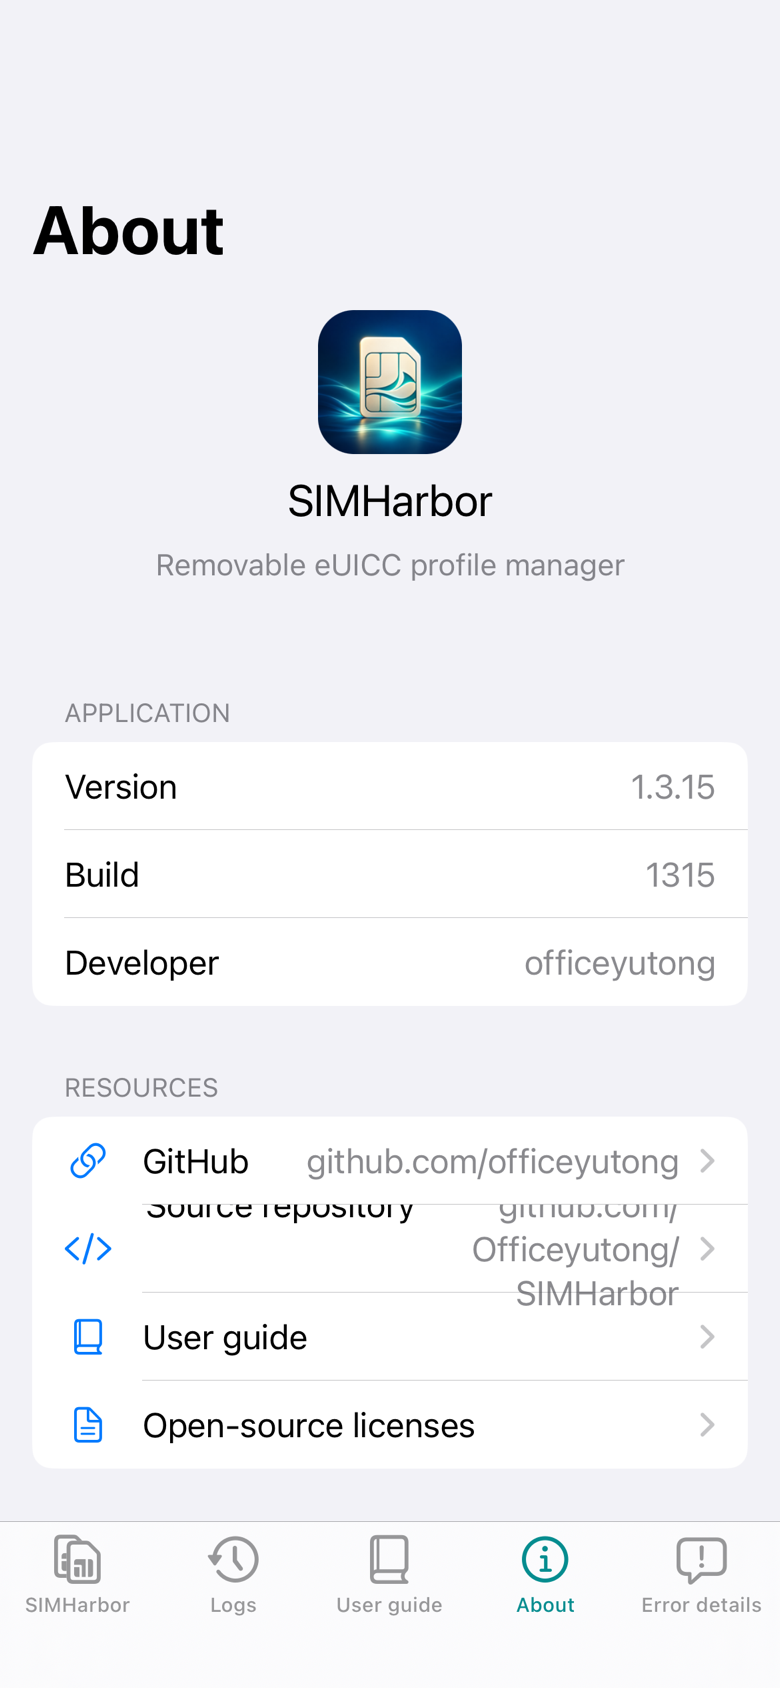
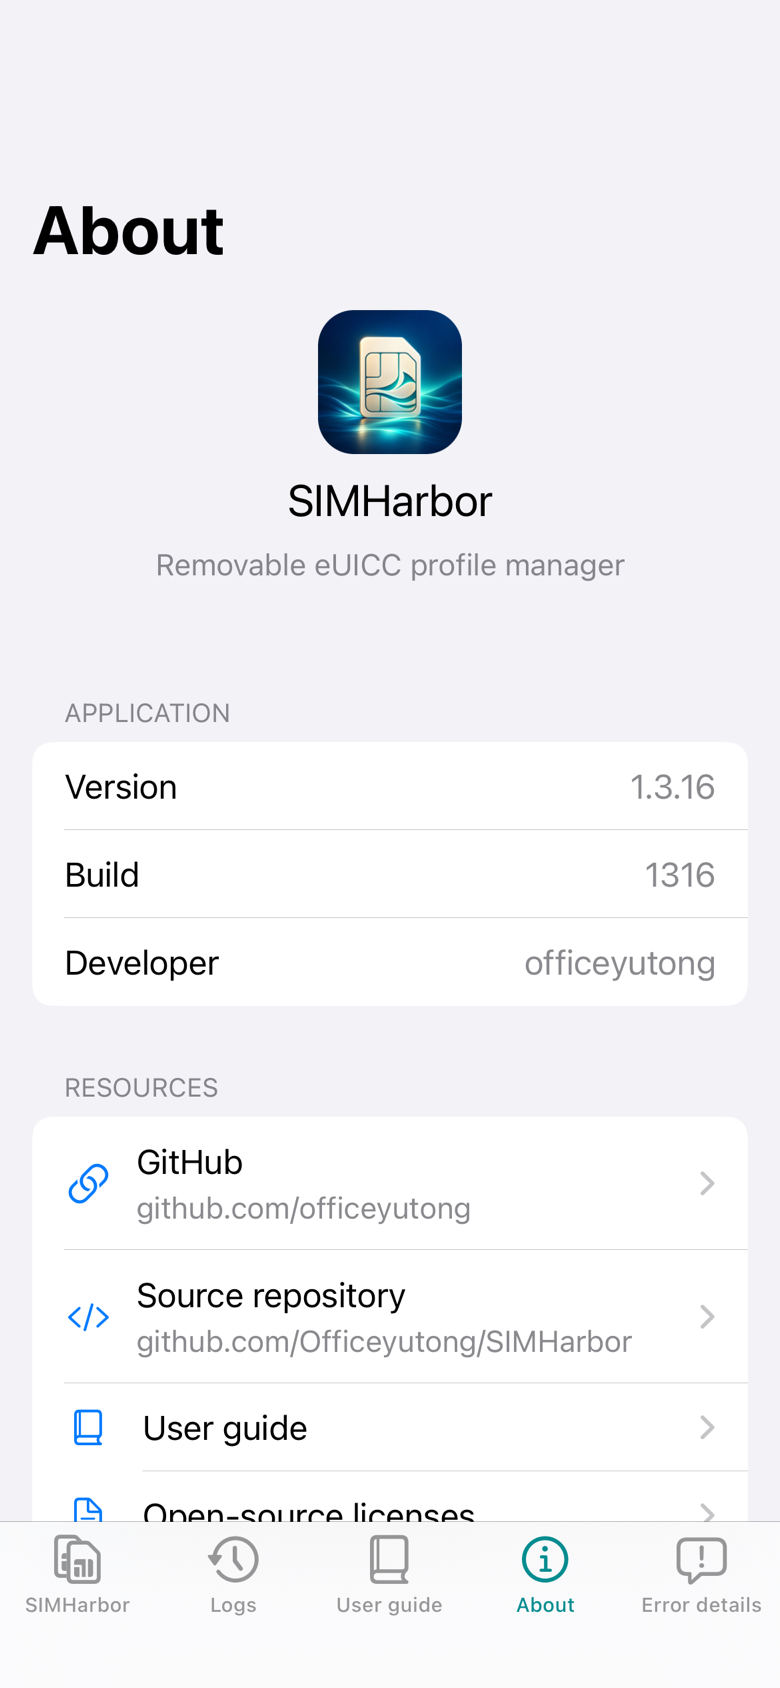
fix: size About links vertically in both languages for 1.3.16

diff --git a/viewer/AboutVC.m b/viewer/AboutVC.m
@@ -1,6 +1,57 @@
 #import "AboutVC.h"
 #import "Localization.h"
 
+@interface SHAboutLinkCell : UITableViewCell
+- (instancetype)initWithTitle:(NSString *)title
+                      address:(NSString *)address
+                       symbol:(NSString *)symbol;
+@end
+@implementation SHAboutLinkCell
+- (instancetype)initWithTitle:(NSString *)title
+                      address:(NSString *)address
+                       symbol:(NSString *)symbol {
+    if ((self = [super initWithStyle:UITableViewCellStyleDefault reuseIdentifier:nil])) {
+        self.accessoryType = UITableViewCellAccessoryDisclosureIndicator;
+        UIImageView *icon = [[UIImageView alloc] initWithImage:[UIImage systemImageNamed:symbol]];
+        icon.contentMode = UIViewContentModeScaleAspectFit;
+        icon.translatesAutoresizingMaskIntoConstraints = NO;
+        UILabel *heading = [UILabel new];
+        heading.text = title;
+        heading.font = [UIFont preferredFontForTextStyle:UIFontTextStyleBody];
+        heading.adjustsFontForContentSizeCategory = YES;
+        heading.numberOfLines = 0;
+        UILabel *url = [UILabel new];
+        url.text = address;
+        url.font = [UIFont preferredFontForTextStyle:UIFontTextStyleSubheadline];
+        url.adjustsFontForContentSizeCategory = YES;
+        url.textColor = UIColor.secondaryLabelColor;
+        url.numberOfLines = 0;
+        url.lineBreakMode = NSLineBreakByCharWrapping;
+        UIStackView *labels = [[UIStackView alloc] initWithArrangedSubviews:@[ heading, url ]];
+        labels.axis = UILayoutConstraintAxisVertical;
+        labels.spacing = 4;
+        labels.translatesAutoresizingMaskIntoConstraints = NO;
+        [self.contentView addSubview:icon];
+        [self.contentView addSubview:labels];
+        UILayoutGuide *margins = self.contentView.layoutMarginsGuide;
+        [NSLayoutConstraint activateConstraints:@[
+            [icon.leadingAnchor constraintEqualToAnchor:margins.leadingAnchor],
+            [icon.widthAnchor constraintEqualToConstant:24],
+            [icon.heightAnchor constraintEqualToConstant:24],
+            [icon.centerYAnchor constraintEqualToAnchor:labels.centerYAnchor],
+            [labels.leadingAnchor constraintEqualToAnchor:icon.trailingAnchor constant:12],
+            [labels.trailingAnchor constraintEqualToAnchor:margins.trailingAnchor],
+            [labels.topAnchor constraintEqualToAnchor:self.contentView.topAnchor constant:12],
+            [labels.bottomAnchor constraintEqualToAnchor:self.contentView.bottomAnchor constant:-12]
+        ]];
+        self.isAccessibilityElement = YES;
+        self.accessibilityLabel = [NSString stringWithFormat:@"%@, %@", title, address];
+        self.accessibilityTraits = UIAccessibilityTraitLink;
+    }
+    return self;
+}
+@end
+
 @interface SHLicensesVC : UIViewController
 @property(nonatomic, strong) UITextView *text;
 @end
@@ -97,6 +148,16 @@
     return section == 0 ? SHL(@"Application") : SHL(@"Resources");
 }
 - (UITableViewCell *)tableView:(UITableView *)tableView cellForRowAtIndexPath:(NSIndexPath *)index {
+    if (index.section == 1 && index.row <= 1) {
+        BOOL repository = index.row == 1;
+        SHAboutLinkCell *cell = [[SHAboutLinkCell alloc]
+            initWithTitle:repository ? SHL(@"Source repository") : @"GitHub"
+                  address:repository ? @"github.com/Officeyutong/SIMHarbor"
+                                     : @"github.com/officeyutong"
+                   symbol:repository ? @"chevron.left.forwardslash.chevron.right" : @"link"];
+        cell.accessibilityIdentifier = repository ? @"about.repository" : @"about.github";
+        return cell;
+    }
     UITableViewCell *cell = [[UITableViewCell alloc] initWithStyle:UITableViewCellStyleValue1
                                                    reuseIdentifier:nil];
     cell.textLabel.numberOfLines = 0;
@@ -118,10 +179,6 @@
         cell.textLabel.text = @[
             @"GitHub", SHL(@"Source repository"), SHL(@"User guide"), SHL(@"Open-source licenses")
         ][index.row];
-        if (index.row == 0)
-            cell.detailTextLabel.text = @"github.com/officeyutong";
-        if (index.row == 1)
-            cell.detailTextLabel.text = @"github.com/Officeyutong/SIMHarbor";
         cell.imageView.image = [UIImage systemImageNamed:@[
             @"link", @"chevron.left.forwardslash.chevron.right", @"book.closed", @"doc.text"
         ][index.row]];

diff --git a/README.md b/README.md
@@ -51,7 +51,7 @@ GitHub Actions workflow: `.github/workflows/build.yml`.
 
 Releases require all three variants to succeed. Assets include `SIMHarbor_VERSION_rootful.deb`, `SIMHarbor_VERSION_rootless.deb`, `SIMHarbor_VERSION_roothide.deb`, a combined `SHA256SUMS`, and per-scheme build metadata.
 
-To release a new version, update `VERSION` and increment `BUILD_NUMBER` as needed. The package `control` file and app `Info.plist` are generated from templates in `packaging/`; they do not need manual synchronization. The current source version is 1.3.15 (build 1315). See the [release notes](docs/RELEASES.md).
+To release a new version, update `VERSION` and increment `BUILD_NUMBER` as needed. The package `control` file and app `Info.plist` are generated from templates in `packaging/`; they do not need manual synchronization. The current source version is 1.3.16 (build 1316). See the [release notes](docs/RELEASES.md).
 
 ## Tests and validation scope
 

diff --git a/docs/RELEASES.md b/docs/RELEASES.md
@@ -1,5 +1,17 @@
 # Release notes / 版本记录
 
+## 1.3.16 — build 1316
+
+### English
+
+- Fix overlapping repository addresses on the English and Chinese About page. Developer and repository links now use a vertical title/address layout with explicit self-sizing constraints, full URL wrapping, Dynamic Type and accessible link labels.
+- Refresh the English README screenshots after verifying the corrected layout on the phone. Link destinations are unchanged.
+
+### 简体中文
+
+- 修复中英文关于页面仓库地址换行、行高不足及文字重叠。开发者和仓库链接改用上下排列的标题/地址，通过明确约束自动撑高，支持完整地址换行、动态字体和无障碍链接标签。
+- 真机核对布局后更新 README 英文截图，链接目标保持不变。
+
 ## 1.3.15 — build 1315
 
 ### English

diff --git a/README.zh-CN.md b/README.zh-CN.md
@@ -51,7 +51,7 @@ GitHub Actions 文件：`.github/workflows/build.yml`。
 
 Release 要求三种构建全部成功，包含三个 `SIMHarbor_VERSION_方案.deb`、合并的 `SHA256SUMS` 以及各方案的构建信息。
 
-发布新版时修改 `VERSION`，并按需递增 `BUILD_NUMBER`。`control` 和 App 的 `Info.plist` 从 `packaging/` 模板自动生成，无需手动同步。源码版本目前为 1.3.15（构建号 1315），变更见[版本记录](docs/RELEASES.md)。
+发布新版时修改 `VERSION`，并按需递增 `BUILD_NUMBER`。`control` 和 App 的 `Info.plist` 从 `packaging/` 模板自动生成，无需手动同步。源码版本目前为 1.3.16（构建号 1316），变更见[版本记录](docs/RELEASES.md)。
 
 ## 测试与验证范围
 

diff --git a/docs/images/README.md b/docs/images/README.md
@@ -1,6 +1,6 @@
 # README screenshots
 
-English UI captures from SIMHarbor 1.3.15 on an iPhone 13 running iOS 17.2.1:
+English UI captures from SIMHarbor 1.3.16 on an iPhone 13 running iOS 17.2.1:
 
 - `profiles-en.png`: profile list and scan/import entry points.
 - `slots-en.png`: automatic and manual slot selection.
